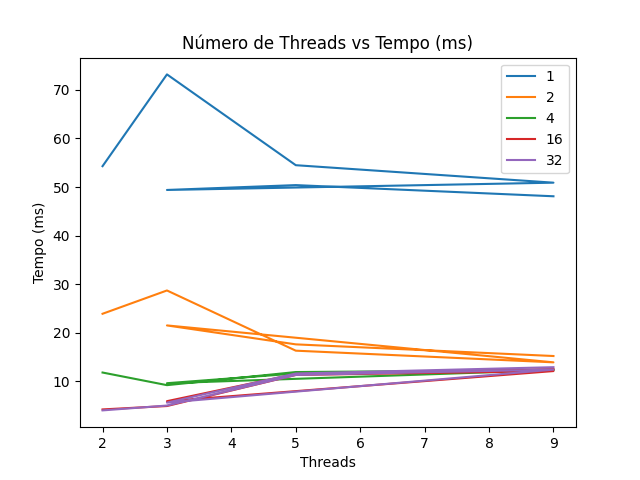
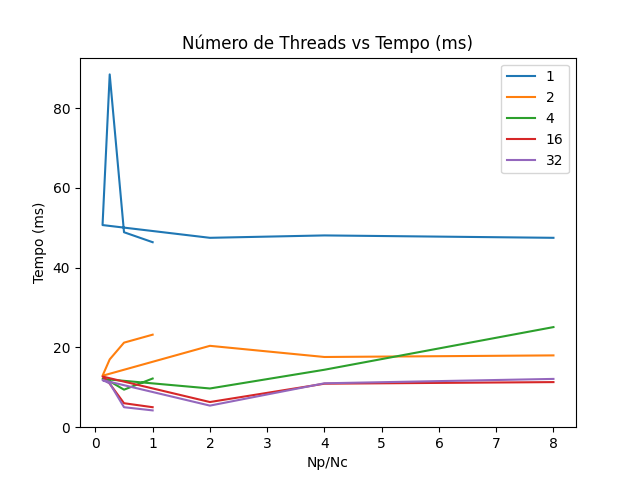
Minor change in how organize graph

diff --git a/producer-consumer-semaphore/generateNumbersAndGraphs.py b/producer-consumer-semaphore/generateNumbersAndGraphs.py
@@ -17,20 +17,20 @@ for n in [1,2,4,16,32]:
     
     elapsedTime /= 10
 
-    nData.append([np+nc, elapsedTime])
+    nData.append([np/nc, elapsedTime])
   
   data.append([n, nData]);
 
 plt.figure(1)
 
 for [n,dataSet] in data:
-  df = pd.DataFrame(dataSet, columns=['npxnc', 'elapsedTime'])
+  df = pd.DataFrame(dataSet, columns=['np/nc', 'elapsedTime'])
 
-  plt.plot(df['npxnc'], df['elapsedTime'],  label=n)
+  plt.plot(df['np/nc'], df['elapsedTime'],  label=n)
 
 plt.title('Número de Threads vs Tempo (ms)')
 plt.ylabel('Tempo (ms)')
-plt.xlabel('Threads')
+plt.xlabel('Np/Nc')
 plt.legend()
 plt.savefig('graph.png')
 
